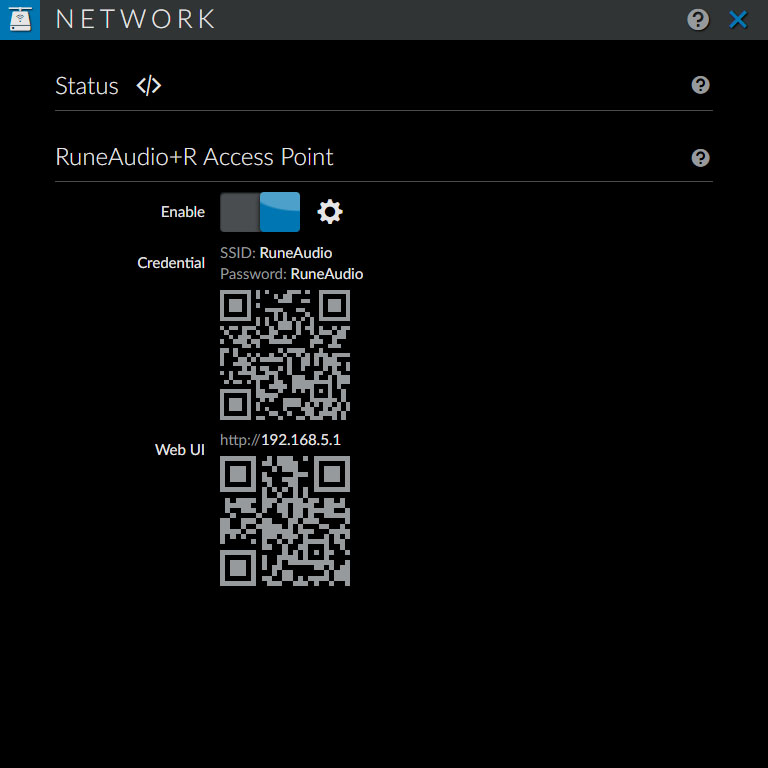
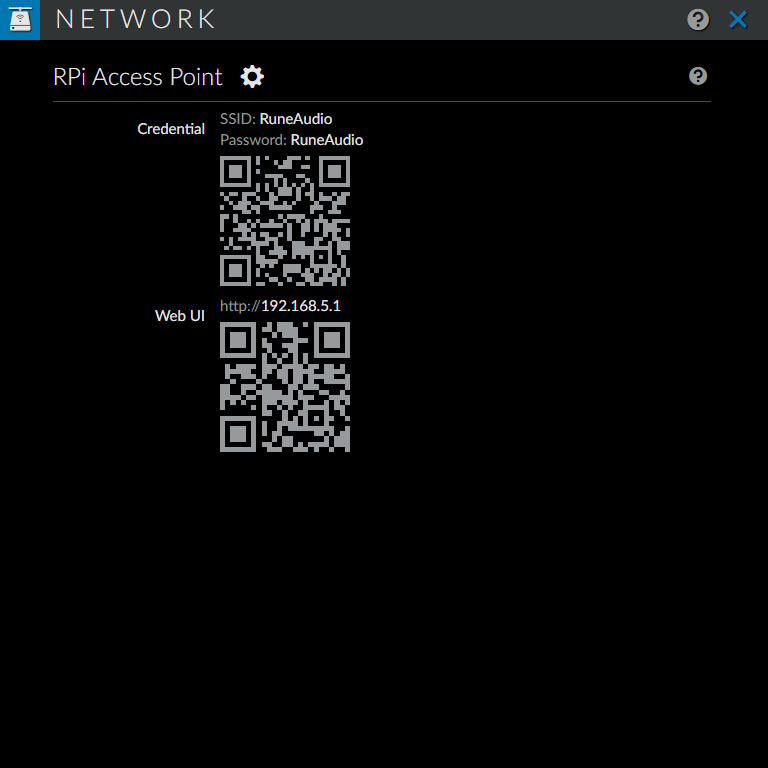
u

Changed region(s): [[0.0625, 0.0625, 0.4688, 0.7812], [0.875, 0.1875, 0.9375, 0.2188], [0.875, 0.0938, 0.9375, 0.125]]

diff --git a/srv/http/settings/network.php b/srv/http/settings/network.php
@@ -3,8 +3,7 @@
 	<heading id="headlan" class="noline">LAN<i id="lanadd" class="fa fa-plus-circle"></i></heading>
 	<ul id="listlan" class="entries"></ul>
 <?php }
-	  $wlan = exec ( 'ifconfig | grep ^wlan' );
-	  if ( $wlan ) { ?>
+	  if ( exec( 'ifconfig | grep ^wlan' ) ) { ?>
 	<div>
 	<heading id="headwl" class="noline">Wi-Fi<i id="wladd" class="fa fa-plus-circle"></i><i id="wlscan" class="fa fa-search"></i><?=$help?></heading>
 	<ul id="listwl" class="entries"></ul>
@@ -62,7 +61,7 @@
 	<ul id="listbtscan" class="entries"></ul>
 </div>
 
-	<?php if ( $wlan && file_exists( '/usr/bin/hostapd' ) ) { ?>
+	<?php if ( exec( 'systemctl -q is-active hostapd && echo 1 || echo 0' ) ) { ?>
 <div id="divaccesspoint">
 	<heading>RPi Access Point<?=$help?></heading>
 	<div class="col-l">Enable</div>
